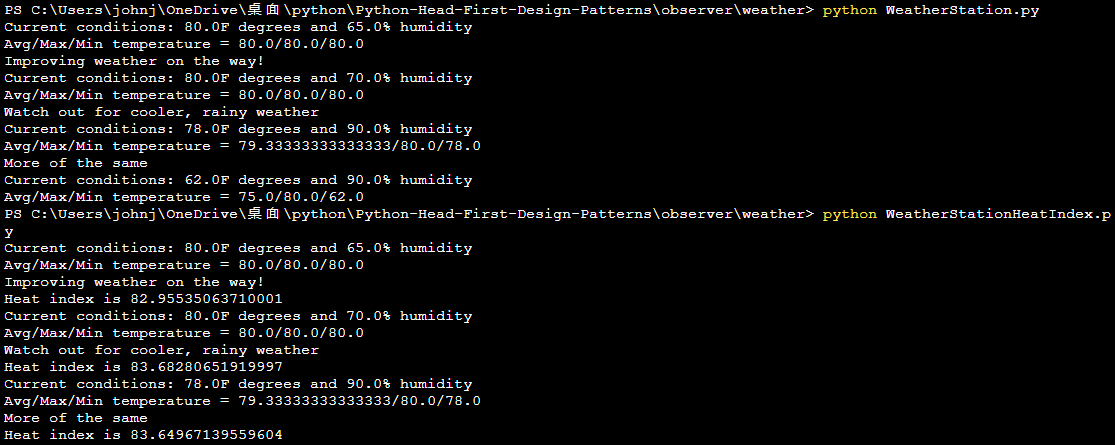
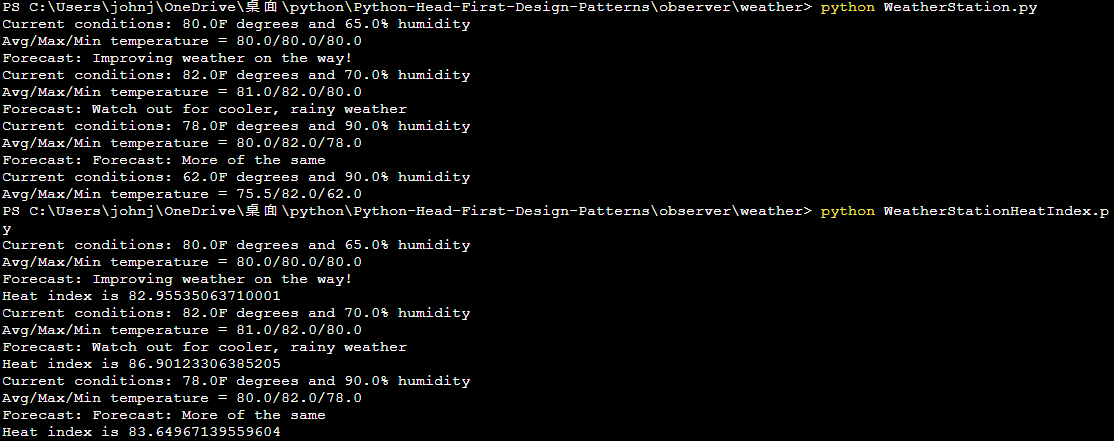
debug

Changed region(s): [[0.0, 0.0, 1.0, 1.0]]

diff --git a/observer/weather/ForecastDisplay.py b/observer/weather/ForecastDisplay.py
@@ -18,9 +18,10 @@ class ForecastDisplay(Observer, DisplayElement):
         self.display()
         
     def display(self) -> None:
+        print("Forecast: ", end="")
         if self.__currentPressure > self.__lastPressure:
             print("Improving weather on the way!")
         elif self.__currentPressure == self.__lastPressure:
-            print("More of the same")
+            print("Forecast: More of the same")
         elif self.__currentPressure < self.__lastPressure:
             print("Watch out for cooler, rainy weather")

diff --git a/observer/weather/WeatherStation.py b/observer/weather/WeatherStation.py
@@ -14,7 +14,7 @@ class WeatherStation:
         forecastDisplay: ForecastDisplay = ForecastDisplay(weatherData)
             
         weatherData.setMeasurements(80.0, 65.0, 30.4)
-        weatherData.setMeasurements(80.0, 70.0, 29.2)
+        weatherData.setMeasurements(82.0, 70.0, 29.2)
         weatherData.setMeasurements(78.0, 90.0, 29.2)
         
         weatherData.removeObserver(forecastDisplay)

diff --git a/observer/weather/WeatherStationHeatIndex.py b/observer/weather/WeatherStationHeatIndex.py
@@ -15,7 +15,7 @@ class WeatherStationHeatIndex:
         heatIndexDisplay: HeatIndexDisplay = HeatIndexDisplay(weatherData)
             
         weatherData.setMeasurements(80.0, 65.0, 30.4)
-        weatherData.setMeasurements(80.0, 70.0, 29.2)
+        weatherData.setMeasurements(82.0, 70.0, 29.2)
         weatherData.setMeasurements(78.0, 90.0, 29.2)
         
         
